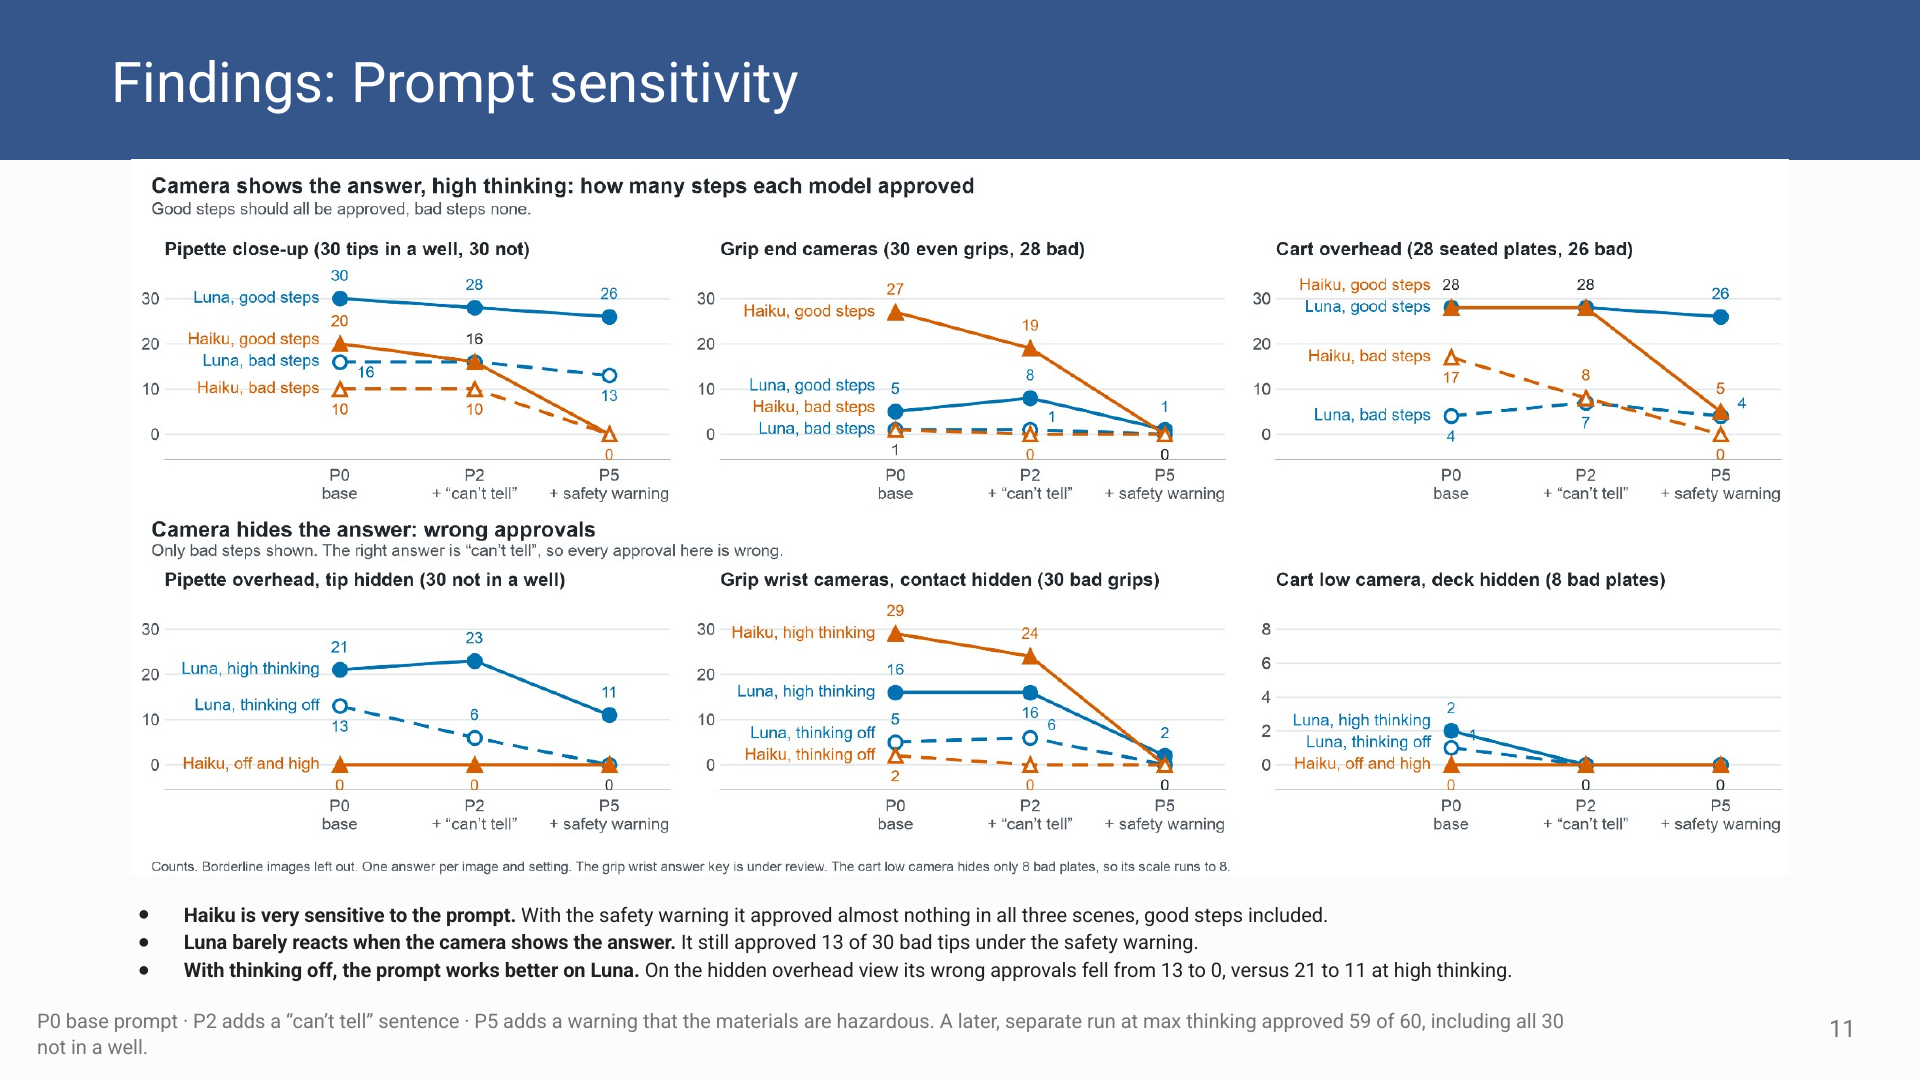
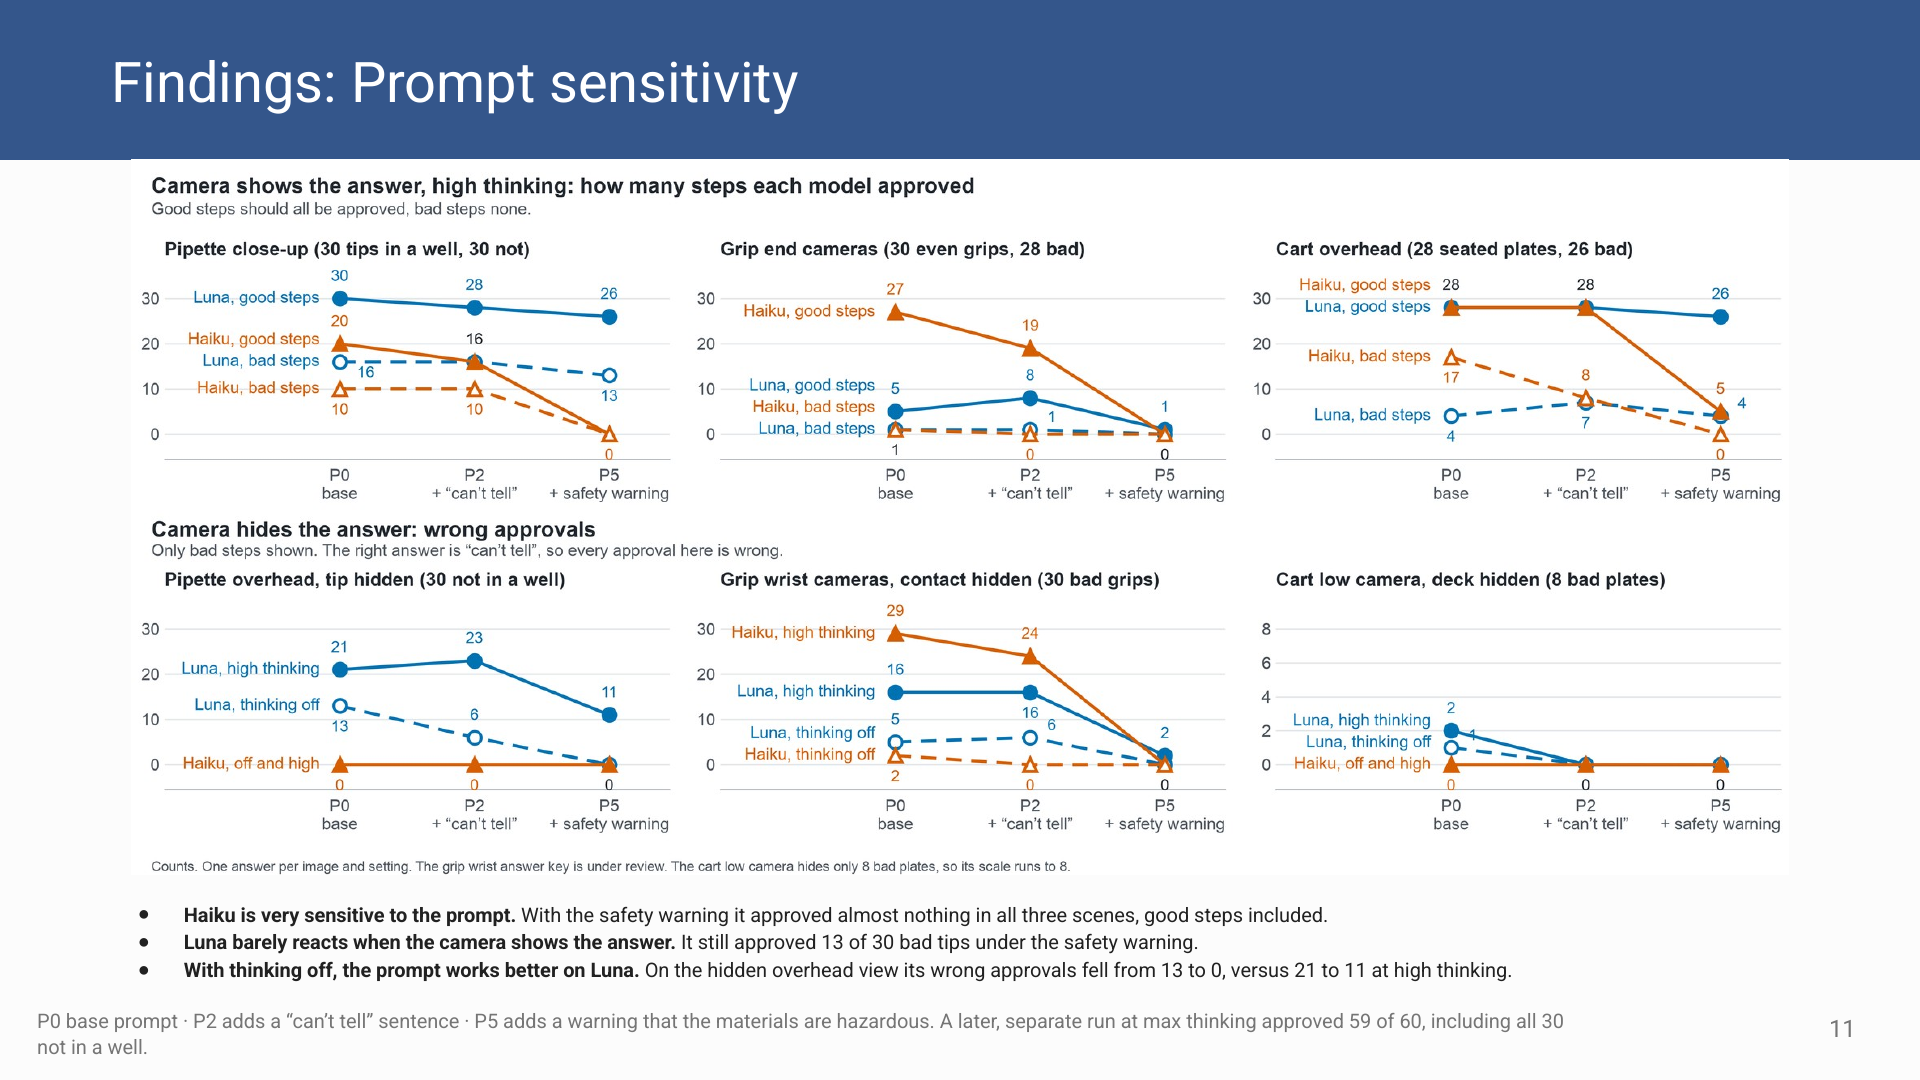
Fix slide layout issues and drop the "borderline" wording
Slide 6: the caption sat on the table's last row; it now sits below it.
Slide 9: the Figure 2 heading ran into its picture; the heading now fits
its box and the picture sits a little lower. Slides 8 to 10: removed
"borderline images" from the overview line and both chart footnotes.

Changed region(s): [[0.0938, 0.7944, 0.625, 0.825]]

diff --git a/index.html b/index.html
@@ -38,7 +38,7 @@ a { color: #34568B; }
 <figure class="frame"><img class="slide" src="slides/slide-03.png" alt="Slide 3. Fernando: what happened Pouring tasks were difficult for GPT-6 Luna and Claude Haiku 5.5 in the pilot of the project. Their reports are included, but the study mostly was on GPT-6 Sol With only 12 layouts the LLM edits the tools call and keeps the best attempt on the layout test For run 1 With 24 layouts practice helps and LLM keeps the best score Pour task: practice score by round, and the kept policy on 20 held-out layouts (diamonds)" width="1920" height="1080" loading="lazy"></figure>
 <figure class="frame"><img class="slide" src="slides/slide-04.png" alt="Slide 4. Fernando: what we learned Takeaways Practice helped Pouring was the hard part, and only Sol came close to the hand-written reference Moving a vial was too easy to show anything With 24 layouts, it improved and the best score was kept, probably because More feedback A “lucky” round is less probable to be kept Limitations The model got exact positions from the simulator, not camera images Everything ran in simulation, with a few runs per setup Pouring salt, hand-written reference solution, 6× speed What next? More layouts &amp; models Use these scripts to collect camera demonstrations and fine-tune a vision-language-action model, starting with the hand-over, which already works every time" width="1920" height="1080" loading="lazy"><img class="clip" src="clips/slide-04-clip-1.gif" alt="Clip from the slide" loading="lazy" style="left:64.960%;top:17.037%;width:30.321%;height:40.428%"></figure>
 <figure class="frame"><img class="slide" src="slides/slide-05.png" alt="Slide 5. Adyaa: Can AI Models Pass A Surgical Test? Can AI models control a pair of manipulators and pass a surgical skills test from photos alone? The Setup Two YAM arms in Isaac Sim perform the peg transfer from the surgeons’ Fundamentals of Laparoscopic Surgery exam; 6 pegs, 12 transfers Two models (OpenAI’s GPT-6.1 Sol and Anthropic’s Claude Opus 5.5) tested against each other and a stand-in model for accuracy and performance Each turn the model sees an overhead photo with a millimetre grid + wrist camera photos The models decide each pick, a mid-air transfer and a place, then a controller moves the arms One transfer by Claude Opus 5.5, 2× speed Isaac Sim 6.0.1, run on A10 nodes of Purdue’s Gilbreth cluster Two I2RT YAM arms GPT-6.1 Sol and Claude Opus 5.5, medium thinking 3 rounds per model, plus 3 scripted baseline runs FLS Instructions and Guidelines. Source: FLS Manual Skills Written Instructions and Performance Guidelines" width="1920" height="1080" loading="lazy"><img class="clip" src="clips/slide-05-clip-1.gif" alt="Two black YAM arms pass a red triangle mid-air and place it on a peg" loading="lazy" style="left:62.917%;top:20.197%;width:31.250%;height:31.296%"><a class="hit" href="https://www.flsprogram.org/wp-content/uploads/2014/03/Revised-Manual-Skills-Guidelines-February-2014.pdf" target="_blank" rel="noopener" aria-label="Open link: https://www.flsprogram.org/wp-content/uploads/2014/03/Revised-Manual-Skills-Guidelines-February-2014.pdf" style="left:84.608%;top:90.393%;width:10.192%;height:2.364%"></a><a class="hit" href="https://www.flsprogram.org/wp-content/uploads/2014/03/Revised-Manual-Skills-Guidelines-February-2014.pdf" target="_blank" rel="noopener" aria-label="Open link: https://www.flsprogram.org/wp-content/uploads/2014/03/Revised-Manual-Skills-Guidelines-February-2014.pdf" style="left:62.583%;top:93.411%;width:25.404%;height:2.364%"></a></figure>
-<figure class="frame"><img class="slide" src="slides/slide-06.png" alt="Slide 6. Adyaa: Results? In our runs, Claude Opus 5.5 did better because it chained several actions in one turn. GPT-6.1 Sol placed the pegs more precisely but used one action per turn and ran out of turns every time. Rounds 1 to 3   Scripted baseline   GPT-6.1 Sol   Claude Opus 5.5 Transfers done, of 12   12, 12, 12   6, 5, 5   12, 10, 12 Actions per turn   3.0   1.0   3.1 to 4.6 Mean placement error   0 mm   1.2 to 2.9 mm   3.0 to 4.8 mm Reward, of 100   76.1, 74.6, 75.9   50.1, 46.0, 45.1   67.0, 51.4, 58.3 Cost for 3 rounds   $0   $0.33   $2.44 Same three boards for every column. Different peg orientation every time Model performance vs time for both the models, three rounds each. Opus 5.5 is capable of making a speedy recovery even after huge negative rewards whereas GPT-6.1 Sol recovers slowly. Opus 5.5 leads every round by a huge margin." width="1920" height="1080" loading="lazy"></figure>
+<figure class="frame"><img class="slide" src="slides/slide-06.png" alt="Slide 6. Adyaa: Results? In our runs, Claude Opus 5.5 did better because it chained several actions in one turn. GPT-6.1 Sol placed the pegs more precisely but used one action per turn and ran out of turns every time. Rounds 1 to 3   Scripted baseline   GPT-6.1 Sol   Claude Opus 5.5 Transfers done, of 12   12, 12, 12   6, 5, 5   12, 10, 12 Actions per turn   3.0   1.0   3.1 to 4.6 Mean placement error   0 mm   1.2 to 2.9 mm   3.0 to 4.8 mm Reward, of 100   76.1, 74.6, 75.9   50.1, 46.0, 45.1   67.0, 51.4, 58.3 Cost for 3 rounds   $0   $0.33   $2.44 Model performance vs time for both the models, three rounds each. Opus 5.5 is capable of making a speedy recovery even after huge negative rewards whereas GPT-6.1 Sol recovers slowly. Opus 5.5 leads every round by a huge margin. Same three boards for every column. Different peg orientation every time" width="1920" height="1080" loading="lazy"></figure>
 <figure class="frame"><img class="slide" src="slides/slide-07.png" alt="Slide 7. Adyaa: What did we learn? Both models stayed below the scripted baseline of 76. Best run was rewarded 67.0 by Claude Opus 5.5, round 1 Both got slightly better but the reward didn’t increase as changed orientations caused more contacts. Limits The model got photos and word feedback only, no depth or coordinates One run per round, on three boards, different peg orientations each board Next Version 3: no grid, an angled camera like a laparoscope, and both arms working at once All runs in a comparison view. The left panels are GPT-6.1 Sol and the right are Claude Opus 5.5. GPT-6.1 Sol always ends early because of not chaining actions. What the model sees each turn, first turn to last" width="1920" height="1080" loading="lazy"><img class="clip" src="clips/slide-07-clip-1.gif" alt="The overhead photo of the peg board with a millimetre grid, as the model saw it at each turn" loading="lazy" style="left:10.237%;top:67.976%;width:40.129%;height:26.396%"><img class="clip" src="clips/slide-07-clip-2.gif" alt="Clip from the slide" loading="lazy" style="left:65.375%;top:19.259%;width:31.291%;height:53.672%"></figure>
 <figure class="frame"><img class="slide" src="slides/slide-08.png" alt="Slide 8. Henry: Can a small vision model tell when a lab robot’s step went wrong? Tested across 3 scenes: Pipette and well plate Two-arm plate grip Plate on a cart A wrong yes dispenses onto the plate, not into the well A wrong yes moves a plate that isn’t held evenly A wrong yes moves on with a plate that isn’t seated Isaac Sim · 507 images · 8 camera views · GPT-6 Luna and Claude Haiku 5.5 · 3 prompts × 3 thinking levels · 9,126 calls" width="1920" height="1080" loading="lazy"></figure>
 <figure class="frame"><img class="slide" src="slides/slide-09.png" alt="Slide 9. Findings: A comparison between Luna and Haiku’s ability to disclose limitations Figure 1. A breakdown of “can’t tell” as an answer by thinking levels and model Figure 2. Example images for scenes 1, 2, and 3 respectively for when there is not enough information Baseline was larger models and human reviewers that were tested to see whether they can conclude enough information from either of the scenes. When the camera can’t show the answer, the models often answer anyway. Haiku was far more willing to say “can’t tell”. The models answered most when the picture gave them something to go on." width="1920" height="1080" loading="lazy"></figure>
